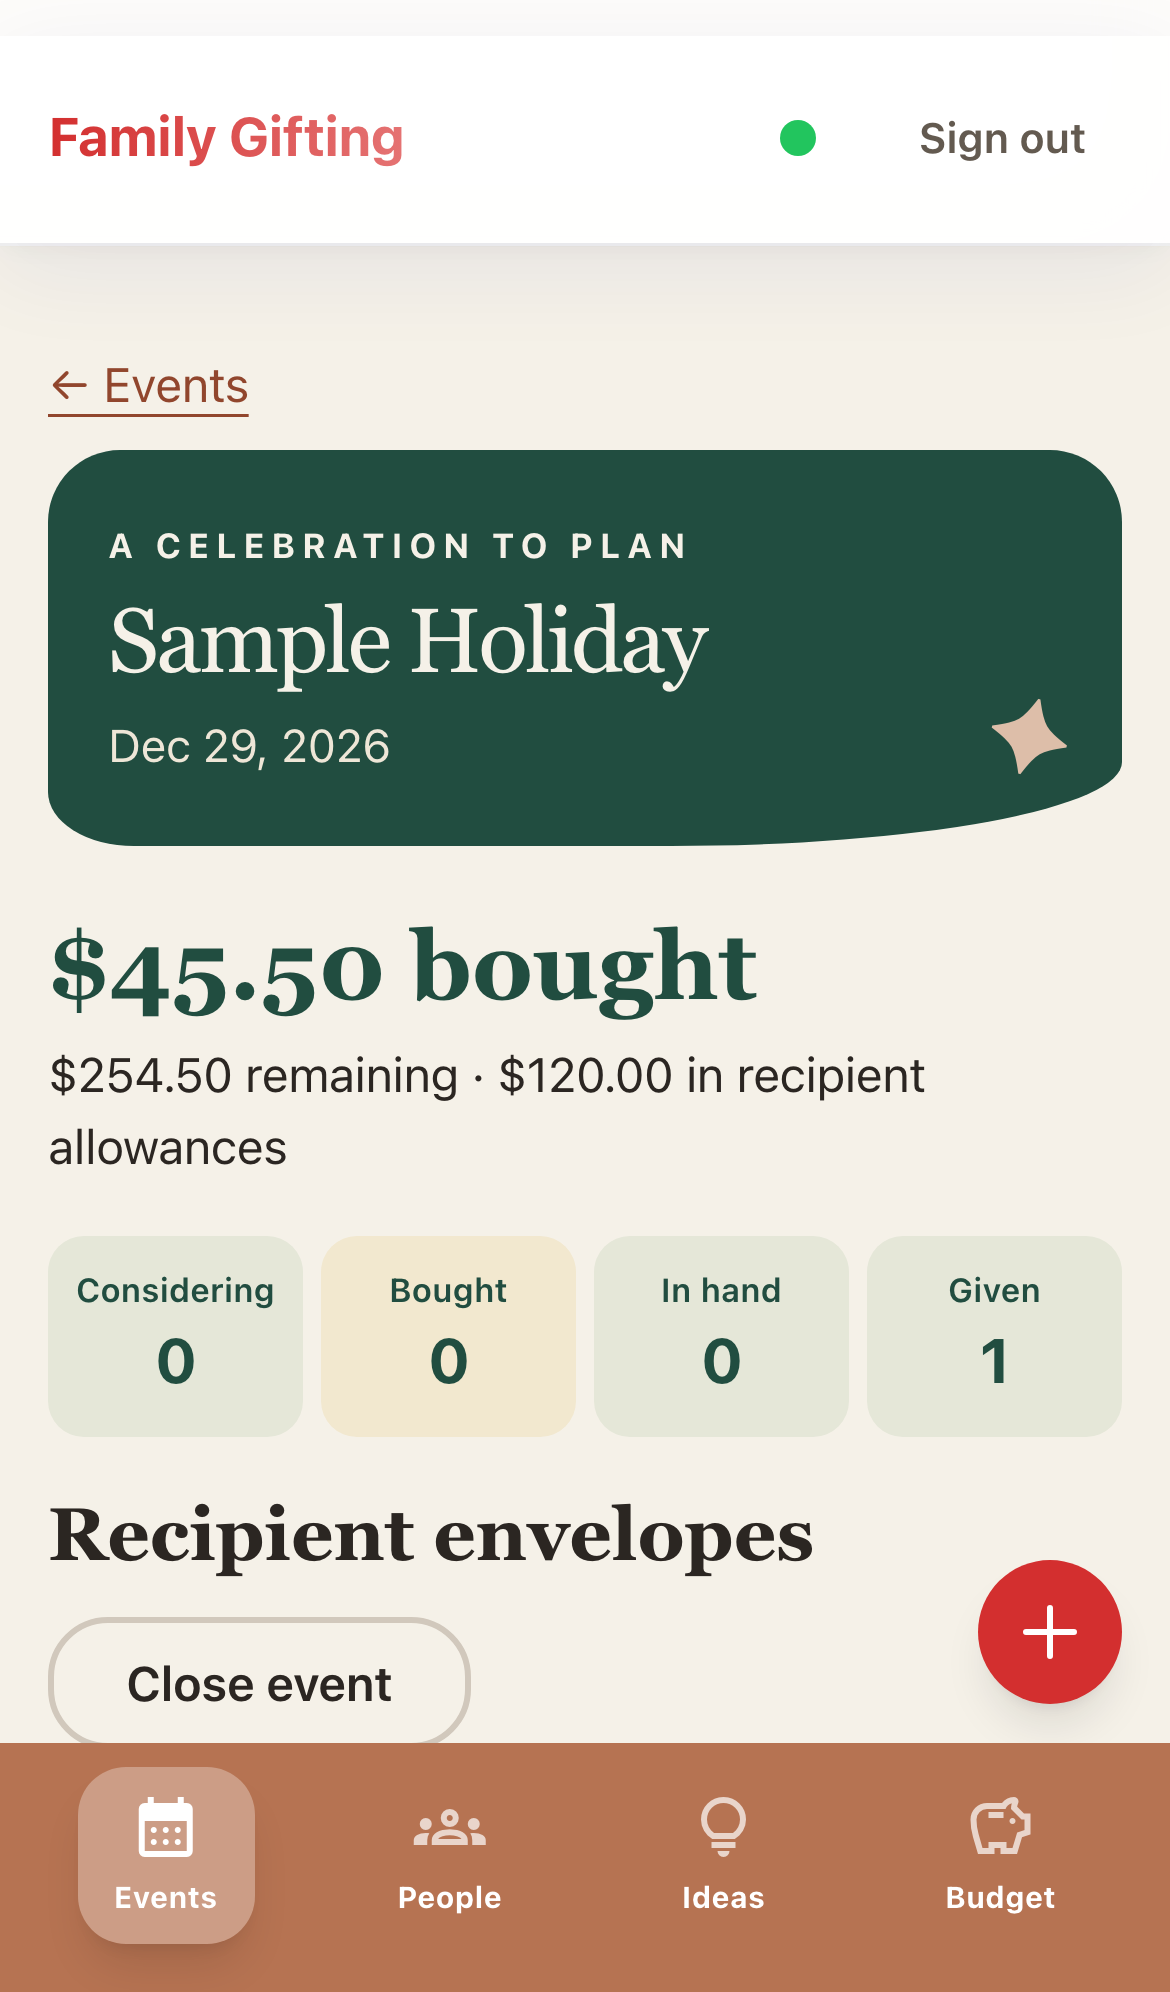
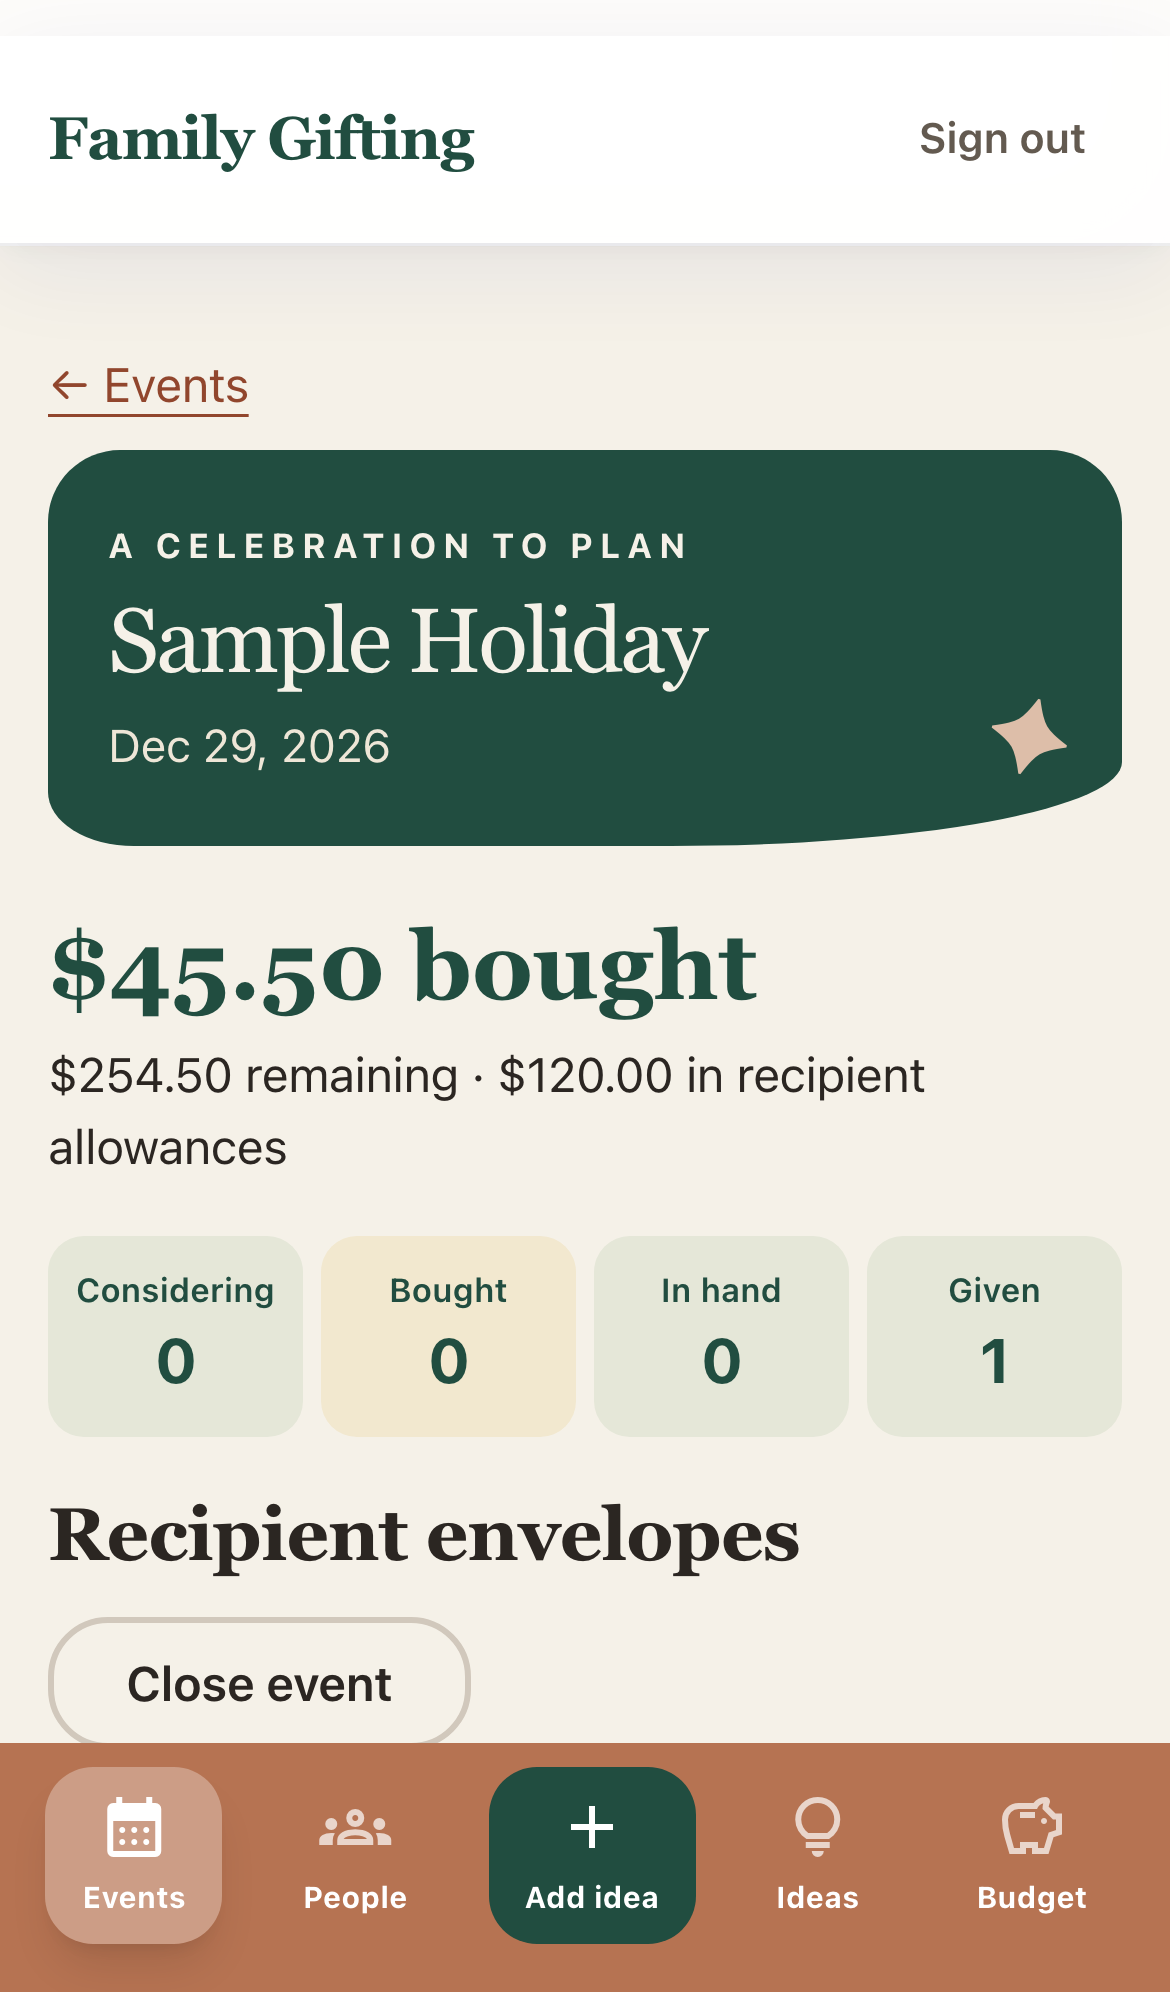
docs(release): final captures in one design language, updated how-to

diff --git a/docs/release/evidence/2026-11/README.md b/docs/release/evidence/2026-11/README.md
@@ -22,10 +22,12 @@ For every screen, capture 2–3 states at 375px or 390px wide; also check 1280px
 
 Use filenames ending in `-375.png`, `-390.png` or `-1280.png`. Inspect each source PNG and record overlap, clipping, contrast, density, empty/error text and minimum touch targets. Exercise a failed API request and recovery; verify the service worker does not return an old successful response. Reload as the second user and confirm current gift phases and totals. Attach actual image pointers as `validation` evidence to the release parent and visual owner before closing either.
 
-## Update 2026-11-18 (native browser lane)
+## Update 2026-11-18 (native browser lane, final)
 
-Chromium (Playwright, iPhone 13 at 390px, iPhone SE at 375px, desktop 1280px) walked the journeys against a real PostgreSQL stack with seeded sample data (`example.test` accounts, "Sample" names). Source PNGs are in `screens/`: login empty/error, events, occurrence, capture empty/error, people, person, budgets, ideas, calendar, plus post-restart reloads for both sample accounts (`local-after-restart-*`, `lan-after-restart-*`). Persistence: stack stopped and started, both accounts signed in again and saw the same event, allowance, gift phase and totals.
+Chromium (Playwright; iPhone 13 at 390px, iPhone SE at 375px, desktop 1280px) walked the journeys against a real PostgreSQL stack with seeded sample data (`example.test` accounts, "Sample" names), locally and on the LAN rehearsal host. Source PNGs are in `screens/` (names end `-390`, `-375`, `-1280`): sign-in empty/error, register, events, calendar, occurrence, capture empty/error, add-person modal, people, person, budgets, ideas, and reloads for both sample accounts after a pod stop/start under its user systemd unit (`lan-unit-restart-*`).
 
-Fixed after inspection: duplicate capture button; dead search and notification-badge controls; profile icon that signed out with one tap (now a labelled Sign out); "-1 groups" count; wrapped Add Person button; half-height recipient cards truncating names; hero taking a third of the phone screen; unaligned paired fields and mixed label styles; flat grey progress bar; cramped phase select; Given label overlapping the link; compose healthchecks that podman builds drop.
+One design language: every screen now uses the Events palette (deep green hero banner, Georgia headings, cream ground, cream cards with sand borders, green filled buttons, terracotta links). People, person detail, ideas, budget, sign-in, register, the add-person dialog and capture were compared against Events side by side at both widths.
 
-Still open: no search or notifications feature exists; the floating add button can sit over page controls while scrolling; People and login screens use a cooler gray/sans style than the Events screens (design-language gap, not redesigned).
+Also: floating add button replaced by a docked "Add idea" item in the phone tab bar (nothing sits over content); header wordmark in the heading serif; unexplained connection dot removed; dead search and notification controls removed; podman-safe healthchecks; user systemd unit for the pod.
+
+Still open: no search or notifications feature exists; the Ideas, Budget and Events cards keep their own spacing rhythm from the earlier module CSS.

diff --git a/docs/release/2026-11-how-to-use.md b/docs/release/2026-11-how-to-use.md
@@ -20,13 +20,13 @@ You and your partner each use your own phone. Both open the **same address** on 
 1. **People:** tap People, then **Add Person**, and add someone you buy for. Only a name is required.
 2. **Events:** tap Events, then **Plan an event**. Give it a name and a date. A money budget is optional. Tap **Create occurrence**.
 3. **Recipients and allowances:** open the event, tap **Add a recipient**, pick the person, optionally set a money allowance and a gift count, then **Save allowance**.
-4. **Save a gift idea** any time with the round **+** button at the bottom right: name, optional link and price, then pick the person and the event. **Save idea**.
+4. **Save a gift idea** any time with the **Add idea** button in the bottom bar (on a computer, the **+** in the left sidebar): name, optional link and price, then pick the person and the event. **Save idea**.
 5. **Move a gift along** from the event page with its **Phase** menu: Considering, Bought, In hand, Given.
 6. **Budget** shows allocated, bought and remaining for each event. Use **Calendar view** on the Events page for upcoming dates.
 
 ## Good to know
 
-- **Sign out** is at the top right of the phone screen.
+- **Sign out** is at the top right of the phone screen. The page keeps working after the host restarts; if it ever does not load, tell the person running it.
 - Everyone with an account sees the same household information. Do not hand the address to anyone you do not want to see your gift plans.
 - Works only on the home network. Nothing is reachable from the internet.
 - This is a trial run. If something looks wrong or you lose a screen, note what you tapped and tell the person running it. Do not delete and re-create things to fix a problem.
